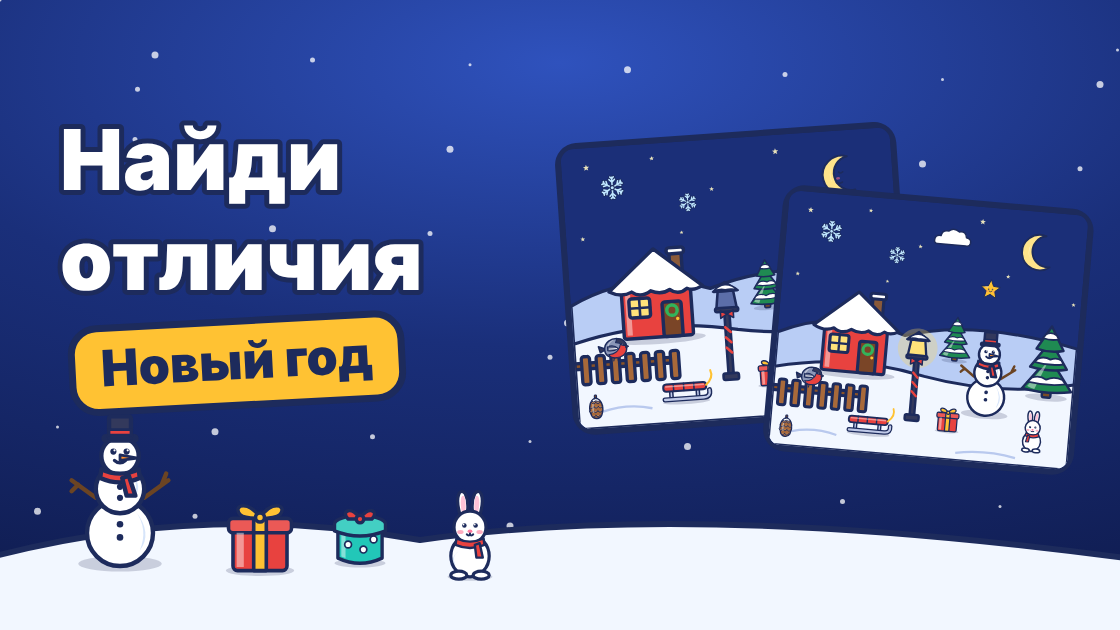
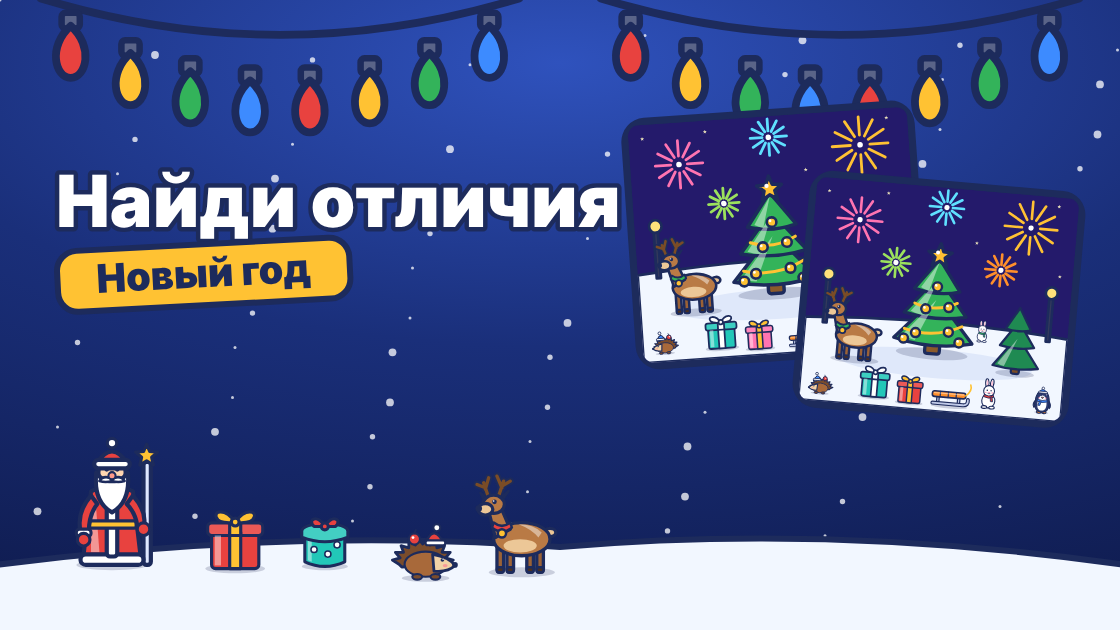
Материалы VK и Playgama: иконка, обложки, история, 5 скриншотов из игры
Claude-Session: https://claude.ai/code/session_01MjZFv29mWmpFqSKMj1XzAP

diff --git a/tools/make-assets.js b/tools/make-assets.js
@@ -1,74 +1,66 @@
-// Материалы для каталога VK Игр: node tools/make-assets.js  → vk-assets/
+// Материалы для карточек: node tools/make-assets.js   (нужен сервер python3 -m http.server 8123 в src/)
 const { chromium } = require('playwright');
 const fs = require('fs'), path = require('path');
-const root = path.resolve(__dirname, '..'), out = path.join(root, 'vk-assets');
-fs.mkdirSync(out, { recursive: true });
-const art = fs.readFileSync(path.join(root, 'src/js/art.js'), 'utf8');
-const lv = fs.readFileSync(path.join(root, 'src/js/levels.js'), 'utf8');
-
-const page = (w, h, body) => `<!doctype html><html><head><meta charset="utf-8"><style>
+const root = path.resolve(__dirname, '..');
+const VK = path.join(root, 'vk-assets'), PG = path.join(root, 'playgama-assets');
+[VK, PG].forEach(d => fs.mkdirSync(d, { recursive: true }));
+const js = ['art', 'bounds', 'scenes', 'levels'].map(f => fs.readFileSync(path.join(root, 'src/js/' + f + '.js'), 'utf8')).join('\n');
+const OUT = '#1d2b5c';
+const page = (w, h, draw) => `<!doctype html><html><head><meta charset="utf-8"><style>
 html,body{margin:0;width:${w}px;height:${h}px;overflow:hidden;font-family:-apple-system,"Segoe UI",Roboto,Arial,sans-serif}
-.bg{position:absolute;inset:0;background:radial-gradient(120% 90% at 50% 10%,#2f52bd 0%,#1a2f7a 50%,#101d52 100%)}
-svg{position:absolute}
-</style></head><body><div class="bg"></div>${body}<script>${art}\n${lv}</script><script>
+.bg{position:absolute;inset:0;background:radial-gradient(120% 90% at 50% 10%,#2f52bd 0%,#1a2f7a 50%,#101d52 100%)} svg{position:absolute;left:0;top:0}
+</style></head><body><div class="bg"></div><svg id="s" width="${w}" height="${h}" viewBox="0 0 ${w} ${h}"></svg><script>${js}</script><script>
 function it(type,x,y,s,extra){var sp=ART.ITEMS[type],d={};sp.details.forEach(function(k){d[k]=true});var o={type:type,x:x,y:y,s:s,d:d};if(extra)for(var k in extra)o[k]=extra[k];return ART.render(o)}
-function snow(n,w,h){var s='';for(var i=0;i<n;i++){var x=(i*137.5)%w,y=(i*89.3)%h;s+='<circle cx="'+x+'" cy="'+y+'" r="'+(1.5+(i%3))+'" fill="rgba(255,255,255,.75)"/>'}return s}
-</script><script>__DRAW__</script></body></html>`;
-
+function snow(n,w,h){var s='';for(var i=0;i<n;i++){s+='<circle cx="'+((i*137.5)%w)+'" cy="'+((i*89.3)%h)+'" r="'+(1.5+(i%3)*1.2)+'" fill="rgba(255,255,255,.75)"/>'}return s}
+function title(x,y,size,t1,t2,anchor,maxW){anchor=anchor||'middle';if(maxW)size=Math.min(size,maxW/(t1.length*0.6));var w2=t2.length*size*0.36+60;var bx=anchor==='middle'?x-w2/2:x;
+ return '<text x="'+x+'" y="'+y+'" text-anchor="'+anchor+'" font-size="'+size+'" font-weight="900" fill="#fff" stroke="${OUT}" stroke-width="'+size/8+'" paint-order="stroke" stroke-linejoin="round">'+t1+'</text>'+
+ '<g transform="translate('+bx+','+(y+size*0.35)+') rotate(-3)"><rect width="'+w2+'" height="'+size*0.85+'" rx="'+size*0.28+'" fill="#ffc233" stroke="${OUT}" stroke-width="'+size/12+'"/><text x="'+w2/2+'" y="'+size*0.6+'" text-anchor="middle" font-size="'+size*0.55+'" font-weight="900" fill="${OUT}">'+t2+'</text></g>'}
+function lights(x,y,s){return it('lights',x,y,s,{c:'#e8423f'})}
+function hill(w,h,y){return '<path d="M-20,'+y+' Q'+w*0.25+','+(y-40)+' '+w*0.5+','+(y-20)+' Q'+w*0.75+','+(y-44)+' '+(w+20)+','+y+' L'+(w+20)+','+(h+20)+' L-20,'+(h+20)+' Z" fill="#f2f7ff" stroke="${OUT}" stroke-width="6"/>'}
+function card(lv,x,y,w,items,rot,id){var h=w*340/400;return '<g transform="translate('+x+','+y+') rotate('+rot+')"><rect x="-7" y="-7" width="'+(w+14)+'" height="'+(h+14)+'" rx="24" fill="${OUT}"/><svg x="0" y="0" width="'+w+'" height="'+h+'" viewBox="0 0 400 340"><clipPath id="c'+id+'"><rect width="400" height="340" rx="16"/></clipPath><g clip-path="url(#c'+id+')">'+LEVELS.renderSide(lv.sceneId,items)+'</g></svg></g>'}
+document.getElementById('s').innerHTML=(function(){${draw}})();
+</script></body></html>`;
 (async () => {
   const b = await chromium.launch();
-  async function render(file, w, h, draw, scale = 1) {
-    const p = await b.newPage({ viewport: { width: w, height: h }, deviceScaleFactor: scale });
-    await p.setContent(page(w, h, '<svg id="s" width="' + w + '" height="' + h + '" viewBox="0 0 ' + w + ' ' + h + '"></svg>').replace('__DRAW__', draw));
-    await p.waitForTimeout(150);
-    await p.screenshot({ path: path.join(out, file) });
-    await p.close();
+  async function render(dir, file, w, h, draw) {
+    const p = await b.newPage({ viewport: { width: w, height: h } });
+    await p.setContent(page(w, h, draw)); await p.waitForTimeout(150);
+    await p.screenshot({ path: path.join(dir, file) }); await p.close();
   }
-  const OUT = '#1d2b5c';
-  // Иконка 576×576 — без текста
-  await render('icon-576.png', 576, 576, `
-    var s=document.getElementById('s');
-    s.innerHTML=snow(40,576,576)+
-      '<circle cx="288" cy="300" r="230" fill="rgba(255,214,90,0.12)"/>'+
-      '<path d="M-10,470 Q150,420 288,436 Q430,420 586,470 L586,600 L-10,600 Z" fill="#f2f7ff" stroke="${OUT}" stroke-width="6"/>'+
-      it('tree',288,290,3.1)+it('gift',150,470,1.05)+it('giftround',426,466,1.0)+
-      '<g transform="translate(288,95)"><ellipse rx="70" ry="66" fill="none" stroke="${OUT}" stroke-width="16"/><ellipse rx="70" ry="66" fill="none" stroke="#ffc233" stroke-width="8"/></g>';
-  `);
-  // Фавикон 32×32 — упрощённый
-  await render('favicon-32.png', 32, 32, `
-    document.querySelector('.bg').style.background='#1f3a8f';
-    document.getElementById('s').innerHTML='<path d="M16 3l11 21H5z" fill="#33b35a" stroke="${OUT}" stroke-width="2" stroke-linejoin="round"/><rect x="13" y="24" width="6" height="5" fill="#a8693a"/><circle cx="13" cy="17" r="2" fill="#e8423f"/><circle cx="19" cy="20" r="2" fill="#ffc233"/><circle cx="16" cy="4" r="2.4" fill="#ffc233"/>';
-  `);
-  // Обложка 1120×630 — с названием
-  await render('cover-1120x630.png', 1120, 630, `
-    var s=document.getElementById('s');
-    var L=LEVELS.build(2);
-    function card(x,y,w,items,rot){var h=w*340/400;return '<g transform="translate('+x+','+y+') rotate('+rot+')"><rect x="-6" y="-6" width="'+(w+12)+'" height="'+(h+12)+'" rx="22" fill="${OUT}"/><svg x="0" y="0" width="'+w+'" height="'+h+'" viewBox="0 0 400 340"><clipPath id="c'+x+'"><rect width="400" height="340" rx="16"/></clipPath><g clip-path="url(#c'+x+')">'+LEVELS.renderSide(L.scene,items)+'</g></svg></g>'}
-    var d=L.diffs[0];
-    s.innerHTML=snow(60,1120,630)+card(560,150,330,L.left,-4)+card(790,190,300,L.right,5)+
-      '<text x="60" y="190" font-size="84" font-weight="900" fill="#fff" stroke="${OUT}" stroke-width="10" paint-order="stroke" stroke-linejoin="round">Найди</text>'+
-      '<text x="60" y="290" font-size="84" font-weight="900" fill="#fff" stroke="${OUT}" stroke-width="10" paint-order="stroke" stroke-linejoin="round">отличия</text>'+
-      '<g transform="translate(70,330) rotate(-3)"><rect width="330" height="84" rx="26" fill="#ffc233" stroke="${OUT}" stroke-width="7"/><text x="165" y="58" text-anchor="middle" font-size="50" font-weight="900" fill="${OUT}">Новый год</text></g>'+
-      '<path d="M-20,560 Q200,500 420,540 Q700,500 1140,560 L1140,700 L-20,700 Z" fill="#f2f7ff" stroke="${OUT}" stroke-width="6"/>'+
-      it('snowman',120,500,1.1)+it('gift',260,540,0.9)+it('giftround',360,536,0.85)+it('bunny',470,540,0.8,{flip:true});
-  `);
-  // Скриншоты 600×1200 — из реальной игры
-  const p = await b.newPage({ viewport: { width: 300, height: 600 }, deviceScaleFactor: 2 });
-  await p.goto('file://' + path.join(root, 'src/index.html'));
-  await p.waitForSelector('#scr-menu.active'); await p.waitForTimeout(500);
-  await p.screenshot({ path: path.join(out, 'screen-1-menu.png') });
-  await p.evaluate(() => { window.__game.save.stars[1] = 3; window.__game.start(7); });
-  await p.waitForTimeout(500);
-  await p.screenshot({ path: path.join(out, 'screen-2-game.png') });
-  const boxes = await p.evaluate(() => window.__game.state.boxes);
+  // Иконка 576 — без текста
+  const icon = `return snow(40,576,576)+'<circle cx="288" cy="300" r="230" fill="rgba(255,214,90,0.12)"/>'+hill(576,576,470)+it('tree',288,282,3.0)+it('gift',150,476,1.0)+it('giftround',428,472,0.95)+
+    '<g transform="translate(288,92)"><ellipse rx="66" ry="62" fill="none" stroke="${OUT}" stroke-width="16"/><ellipse rx="66" ry="62" fill="none" stroke="#ffc233" stroke-width="8"/></g>';`;
+  await render(VK, 'icon-576.png', 576, 576, icon);
+  await render(PG, 'cover-800x800.png', 800, 800, `return snow(50,800,800)+lights(400,60,3.6)+'<circle cx="400" cy="470" r="280" fill="rgba(255,214,90,0.10)"/>'+hill(800,800,690)+it('tree',400,470,2.9)+it('santa',150,610,1.35)+it('snowmaiden',650,612,1.3)+it('gift',300,700,0.9)+it('giftround',510,696,0.9)+title(400,190,96,'Spot the Difference','New Year','middle',740);`);
+  await render(VK, 'favicon-32.png', 32, 32, `document.querySelector('.bg').style.background='#1f3a8f';return '<path d="M16 3l11 21H5z" fill="#33b35a" stroke="${OUT}" stroke-width="2" stroke-linejoin="round"/><rect x="13" y="24" width="6" height="5" fill="#a8693a"/><circle cx="13" cy="17" r="2" fill="#e8423f"/><circle cx="19" cy="20" r="2" fill="#ffc233"/><circle cx="16" cy="4" r="2.4" fill="#ffc233"/>';`);
+  const wide = (w, h, t1, t2) => `var L=LEVELS.build(10);return snow(80,${w},${h})+lights(${w * 0.25},40,2.6)+lights(${w * 0.75},40,2.6)+card(L,${w * 0.56},${h * 0.2},${w * 0.25},L.left,-4,1)+card(L,${w * 0.73},${h * 0.28},${w * 0.235},L.right,5,2)+
+    title(${w * 0.05},${h * 0.36},${h * 0.13},'${t1}','${t2}','start',${w * 0.5})+hill(${w},${h},${h * 0.9})+it('santa',${w * 0.1},${h * 0.8},${h / 600})+it('gift',${w * 0.21},${h * 0.86},${h / 800})+it('giftround',${w * 0.29},${h * 0.86},${h / 820})+it('hedgehog',${w * 0.38},${h * 0.88},${h / 900})+it('deer',${w * 0.46},${h * 0.84},${h / 760},{flip:true});`;
+  await render(VK, 'cover-1120x630.png', 1120, 630, wide(1120, 630, 'Найди отличия', 'Новый год'));
+  await render(PG, 'cover-1920x1080.png', 1920, 1080, wide(1920, 1080, 'Spot the Difference', 'New Year'));
+  const tall = (t1, t2, sub) => `var L=LEVELS.build(10);return snow(90,1080,1920)+lights(540,90,5)+title(540,250,120,'${t1}','${t2}','middle',1000)+card(L,160,470,760,L.left,-2,1)+card(L,160,1250,760,L.right,2,2)+
+    '<text x="540" y="1215" text-anchor="middle" font-size="54" font-weight="900" fill="#fff" stroke="${OUT}" stroke-width="8" paint-order="stroke">${sub}</text>';`;
+  await render(PG, 'cover-1080x1920.png', 1080, 1920, tall('Spot the Difference', 'New Year', 'Find 4 differences!'));
+  await render(VK, 'story-1080x1920.png', 1080, 1920, tall('Найди отличия', 'Новый год', 'Найдёшь 4 отличия?'));
+
+  // Скриншоты 600×1200 из реальной игры
+  const p = await b.newPage({ viewport: { width: 360, height: 720 }, deviceScaleFactor: 600 / 360 });
+  await p.goto('http://localhost:8123/index.html'); await p.waitForSelector('#scr-menu.active'); await p.waitForTimeout(700);
+  if (await p.isVisible('#modal-gift.show')) { await p.click('#btn-gift-take'); }
+  await p.waitForTimeout(2600);
+  await p.screenshot({ path: path.join(VK, 'screen-1-menu.png') });
+  await p.evaluate(() => { window.__game.save.unlocked = 12; [1,2,3,4,5,6,7,8,9,10,11].forEach(n => window.__game.save.stars[n] = n % 4 ? 3 : 2); window.__game.start(8); });
+  await p.waitForTimeout(3000);
+  await p.screenshot({ path: path.join(VK, 'screen-2-game.png') });
+  const boxes = await p.evaluate(() => window.__game.state.lv.diffs.map(d => d.box));
   const bx = await p.locator('#pic-b svg').boundingBox();
-  for (let i = 0; i < 3; i++) { await p.mouse.click(bx.x + boxes[i].cx * bx.width / 400, bx.y + boxes[i].cy * bx.height / 340); await p.waitForTimeout(100); }
-  await p.waitForTimeout(800);
-  await p.click('#btn-hint'); await p.waitForTimeout(300);
-  await p.screenshot({ path: path.join(out, 'screen-3-found.png') });
-  for (let i = 3; i < boxes.length; i++) { await p.mouse.click(bx.x + boxes[i].cx * bx.width / 400, bx.y + boxes[i].cy * bx.height / 340); await p.waitForTimeout(100); }
-  await p.waitForTimeout(1800);
-  await p.screenshot({ path: path.join(out, 'screen-4-win.png') });
+  const tap = async (r) => { await p.mouse.click(bx.x + (r.x0 + r.x1) / 2 * bx.width / 400, bx.y + (r.y0 + r.y1) / 2 * bx.height / 340); await p.waitForTimeout(400); };
+  for (let i = 0; i < boxes.length - 2; i++) await tap(boxes[i]);
+  await p.waitForTimeout(1000); await tap(boxes[boxes.length - 2]); await p.waitForTimeout(250);
+  await p.screenshot({ path: path.join(VK, 'screen-3-found.png') });
+  await tap(boxes[boxes.length - 1]); await p.waitForTimeout(1500);
+  await p.screenshot({ path: path.join(VK, 'screen-4-win.png') });
+  await p.click('#btn-win-menu'); await p.waitForTimeout(400); await p.click('#btn-levels'); await p.waitForTimeout(800);
+  await p.screenshot({ path: path.join(VK, 'screen-5-map.png') });
   await b.close();
-  console.log(fs.readdirSync(out).map(f => f + ' ' + fs.statSync(path.join(out, f)).size).join('\n'));
+  for (const d of [VK, PG]) console.log(fs.readdirSync(d).map(f => f + ' ' + Math.round(fs.statSync(path.join(d, f)).size / 1024) + 'K').join('  '));
 })();
